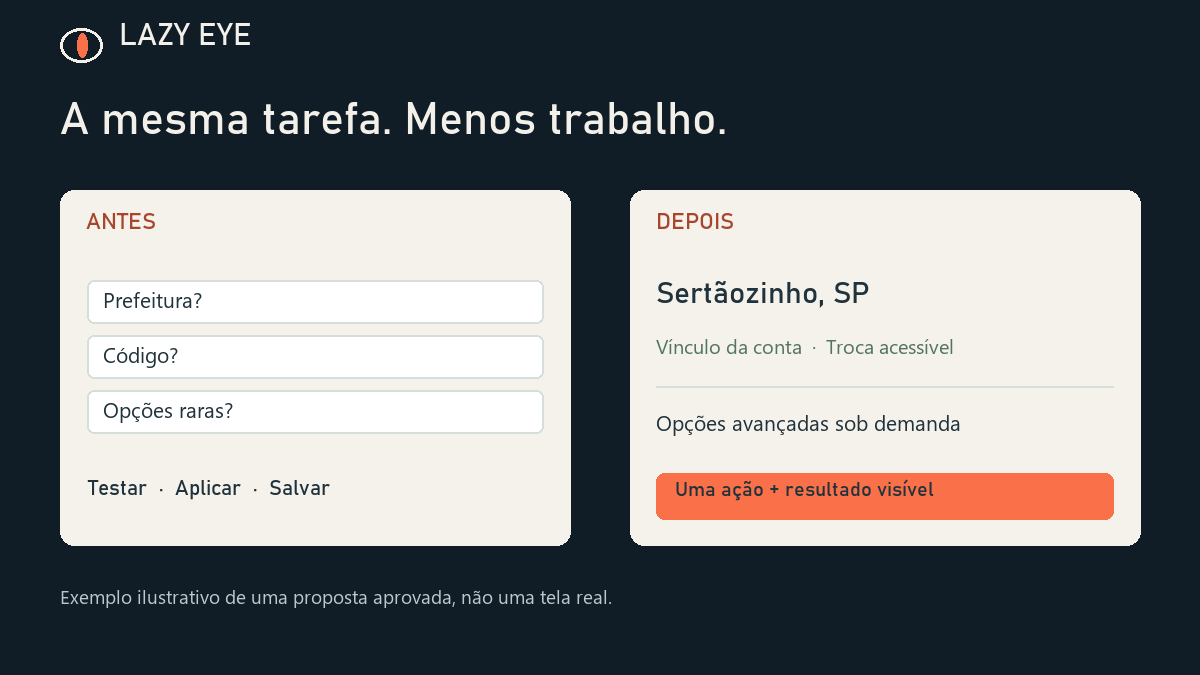
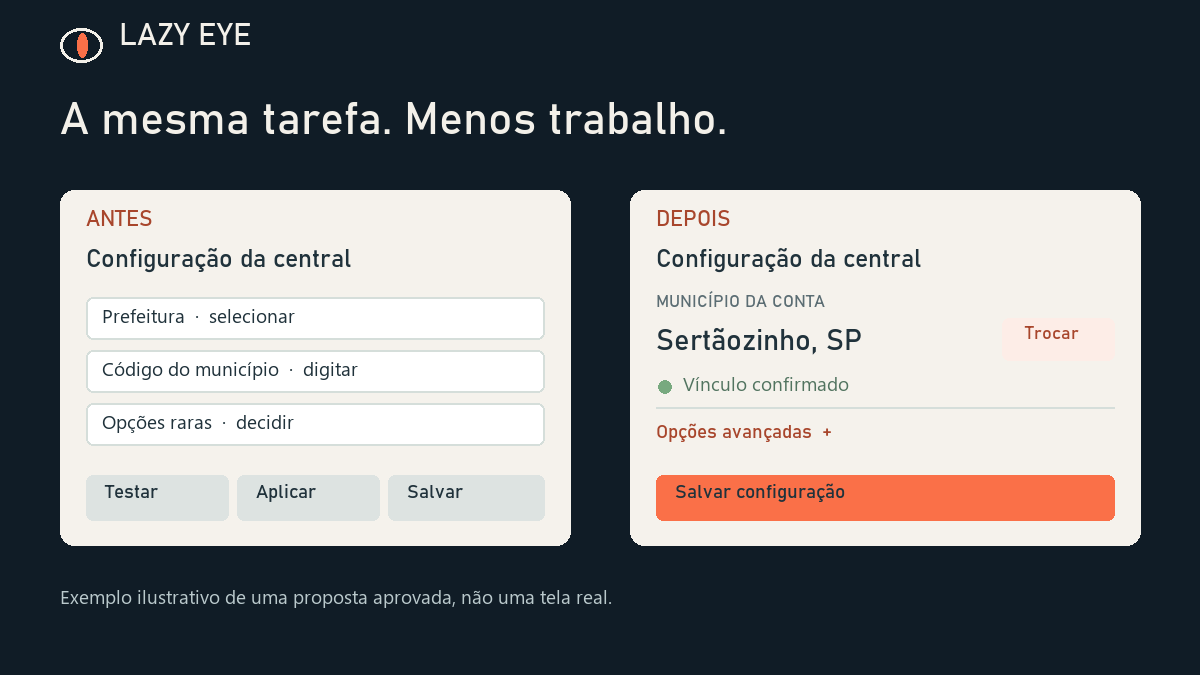
fix: alinha tela final e compara antes e depois

diff --git a/README.md b/README.md
@@ -17,10 +17,10 @@ Funciona em telas, formulários, configuradores, instaladores, fluxos de CLI e t
 
 <picture>
   <source media="(prefers-reduced-motion: reduce)" srcset="./assets/lazy-eye-before-after-static.png">
-  <img src="./assets/lazy-eye-before-after.gif" alt="Exemplo ilustrativo: antes, uma configuração pede prefeitura e código, expõe opções raras e oferece três botões. Após a proposta da Lazy Eye ser aprovada, a tela usa o município da conta com troca acessível, guarda opções avançadas, oferece uma ação para salvar e confirma o resultado. A imagem estática compara os dois estados." width="1200">
+  <img src="./assets/lazy-eye-before-after.gif" alt="Exemplo ilustrativo: antes, uma configuração pede prefeitura e código, expõe opções raras e oferece três botões. Após a proposta da Lazy Eye ser aprovada, a tela usa o município da conta com troca acessível, guarda opções avançadas, oferece uma ação para salvar e confirma o resultado. A animação termina com as duas telas lado a lado." width="1200">
 </picture>
 
-*Exemplo fictício de uma proposta aprovada. A animação mostra a mudança na tela; o diagrama acima explica o método.*
+*Exemplo fictício de uma proposta aprovada. A animação termina com o antes e o depois lado a lado; o diagrama acima explica o método.*
 
 ## Dois modos de trabalho
 
